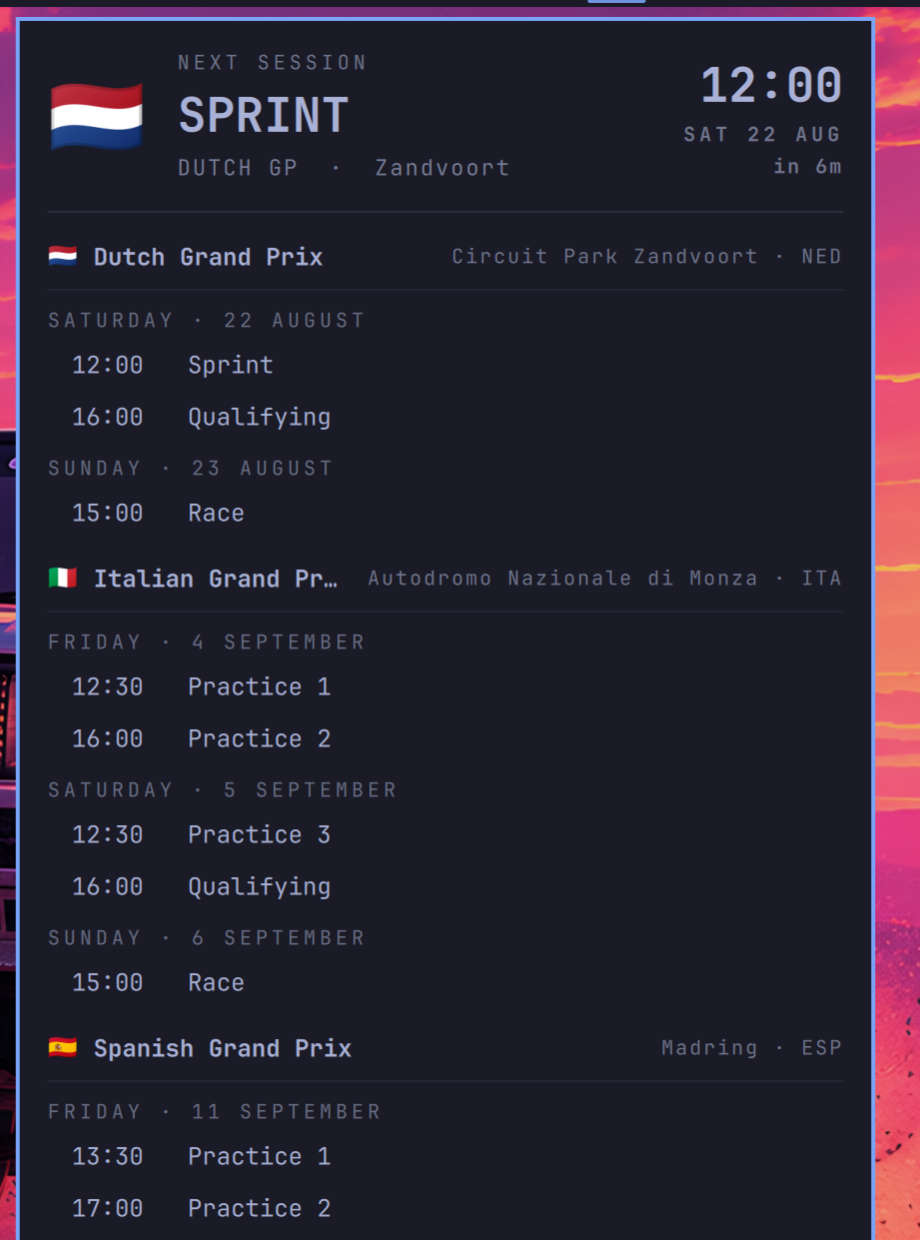
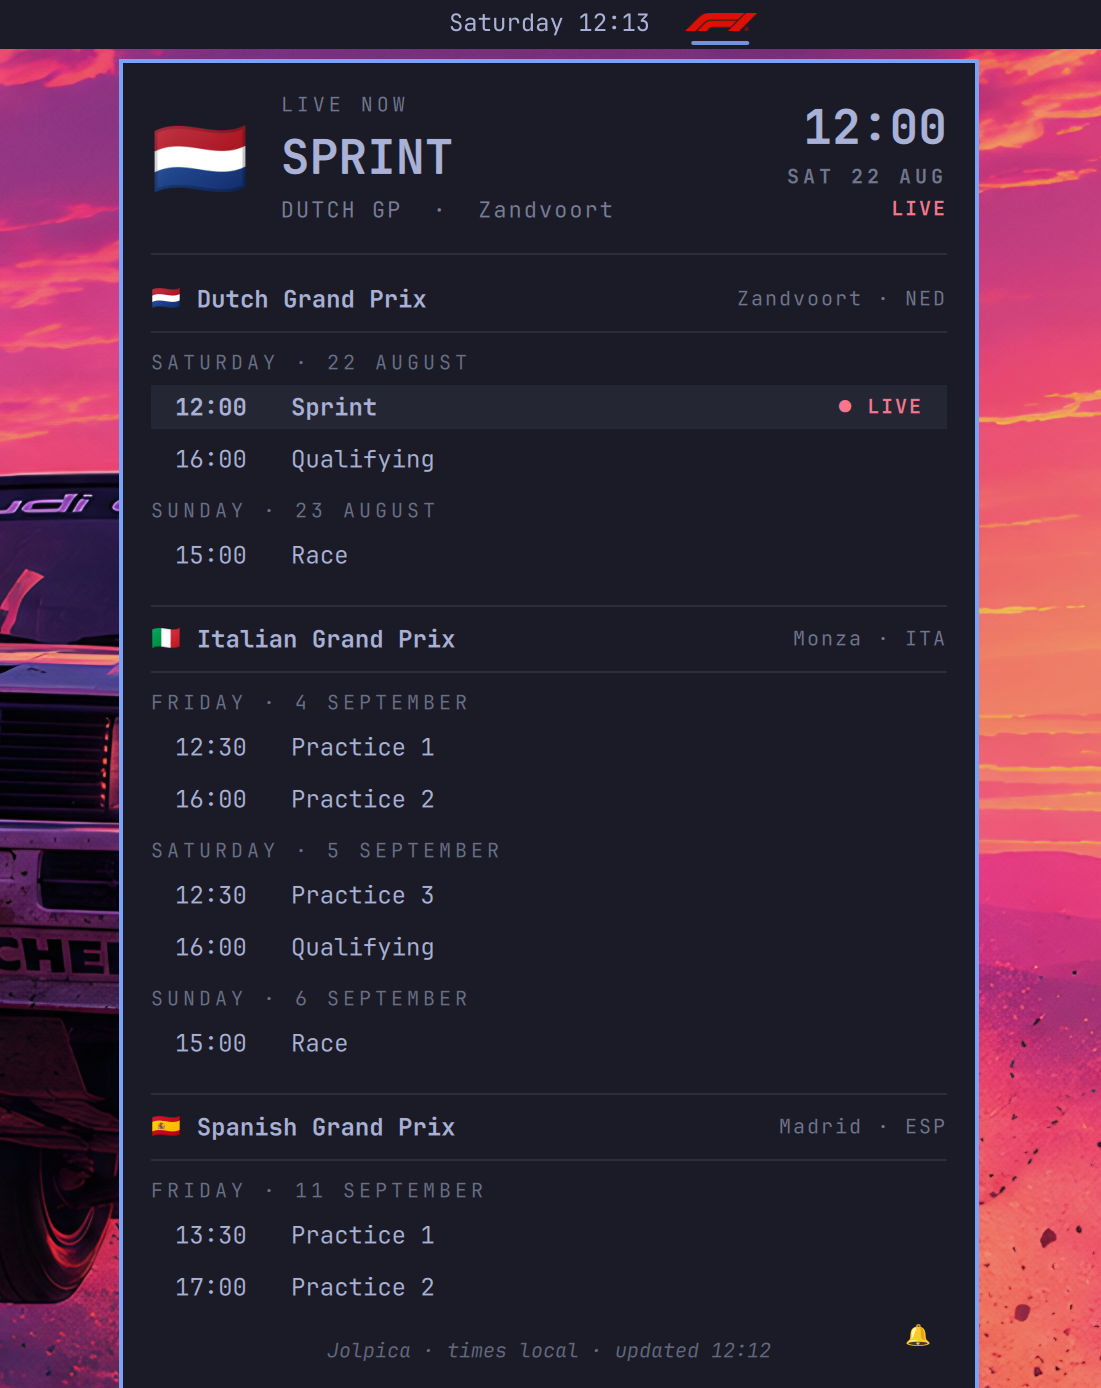
Hero: drop track from next-session line; weekend headers use city; refresh preview

diff --git a/Panel.qml b/Panel.qml
@@ -152,9 +152,9 @@ Panel {
               Text {
                 text: {
                   if (!root.focusSession) return ""
-                  var s = root.focusSession
-                  var gp = Model.shortGpName(s.meetingName, s.officialName)
-                  return gp + (s.location ? "  ·  " + s.location : "")
+                  return Model.shortGpName(root.focusSession.meetingName, root.focusSession.officialName)
+                  // Track/city intentionally omitted here — it's shown per
+                  // weekend below.
                 }
                 elide: Text.ElideRight
                 width: parent.width
@@ -197,7 +197,8 @@ Panel {
                 text: {
                   if (!root.focusSession) return ""
                   if (Model.isLive(root.focusSession, root.nowMs)) return "LIVE"
-                  return "in " + Model.countdown(root.focusSession.startMs - root.nowMs, false)
+                  var untilStart = root.focusSession.startMs - root.nowMs
+                  return untilStart > 0 ? "in " + Model.countdown(untilStart, false) : ""
                 }
                 color: root.focusSession && Model.isLive(root.focusSession, root.nowMs)
                        ? root.bar.urgent !== undefined ? root.bar.urgent : root.bar.foreground

diff --git a/Model.js b/Model.js
@@ -256,11 +256,15 @@ function groupDays(list, locale) {
   return days
 }
 
-// Index of the session to highlight: the first live one, else the next one.
+// Index of the session to highlight: the first live one, else the next one
+// that hasn't started yet. Sessions that already finished are skipped even
+// if they linger in the list through the post-session grace window.
 function focusIndex(list, nowMs) {
   for (var i = 0; i < list.length; i++)
     if (nowMs >= list[i].startMs && nowMs <= list[i].endMs) return i
-  return list.length ? 0 : -1
+  for (var i = 0; i < list.length; i++)
+    if (nowMs < list[i].startMs) return i
+  return -1
 }
 
 function isLive(session, nowMs) {

diff --git a/README.md b/README.md
@@ -14,8 +14,8 @@ schedules.
   next session (`SPRINT 12:00`), time-only, race-weekend view (`NED GP Sat`),
   or logo-only.
 - **Schedule popup** listing all upcoming GPs grouped by weekend and day, with
-  emoji flags, city/country, live highlighting (`● LIVE`), and the next session
-  pinned at the top.
+  emoji flags, city/country, live highlighting (`● LIVE`), and the next
+  session pinned at the top.
 - **Session alerts** — toggle the 🔔 in the panel corner to get a desktop
   notification 5 minutes before each session starts. A test notification fires
   when you enable it.
@@ -32,8 +32,7 @@ schedules.
 omarchy plugin add https://github.com/matteodevenuto/omarchy-f1-sessions.git
 ```
 
-Then open the **Plugin Manager** (or `omarchy plugin list`) and enable
-**F1 Sessions** on the bar — or:
+Then open the Plugin Manager and enable **F1 Sessions** on the bar — or:
 
 ```bash
 omarchy plugin enable matteodevenuto.f1-sessions right
@@ -63,18 +62,18 @@ Settings live in the widget entry of `~/.config/omarchy/shell.json`
 
 | Key | Default | Description |
 |---|---|---|
-| `refreshMinutes` | `60` | Schedule refresh interval |
-| `daysAhead` | `21` | How many days of upcoming sessions to show |
+| `refreshMinutes` | `60` | Schedule refresh interval (minutes) |
+| `daysAhead` | `21` | Days of upcoming sessions to show |
 | `hideWhenQuiet` | `false` | Hide the bar widget when nothing is scheduled in range |
 | `use24h` | `true` | 24-hour times |
 | `displayMode` | `"next"` | Bar label mode (`next`, `time`, `weekend`, `logo`) |
-| `notifications` | `true` | Alert 5 minutes before each session |
+| `notifications` | ` true` | Alert 5 minutes before each session |
 
 ## Screenshots
 
-![Panel](docs/screenshot-panel.png)
+![Panel with race weekends](docs/screenshot-panel.png)
 
-![Bar and panel](docs/screenshot-bar.png)
+![Bar widget and schedule](docs/screenshot-bar.png)
 
 ## Data sources & disclaimer
 
